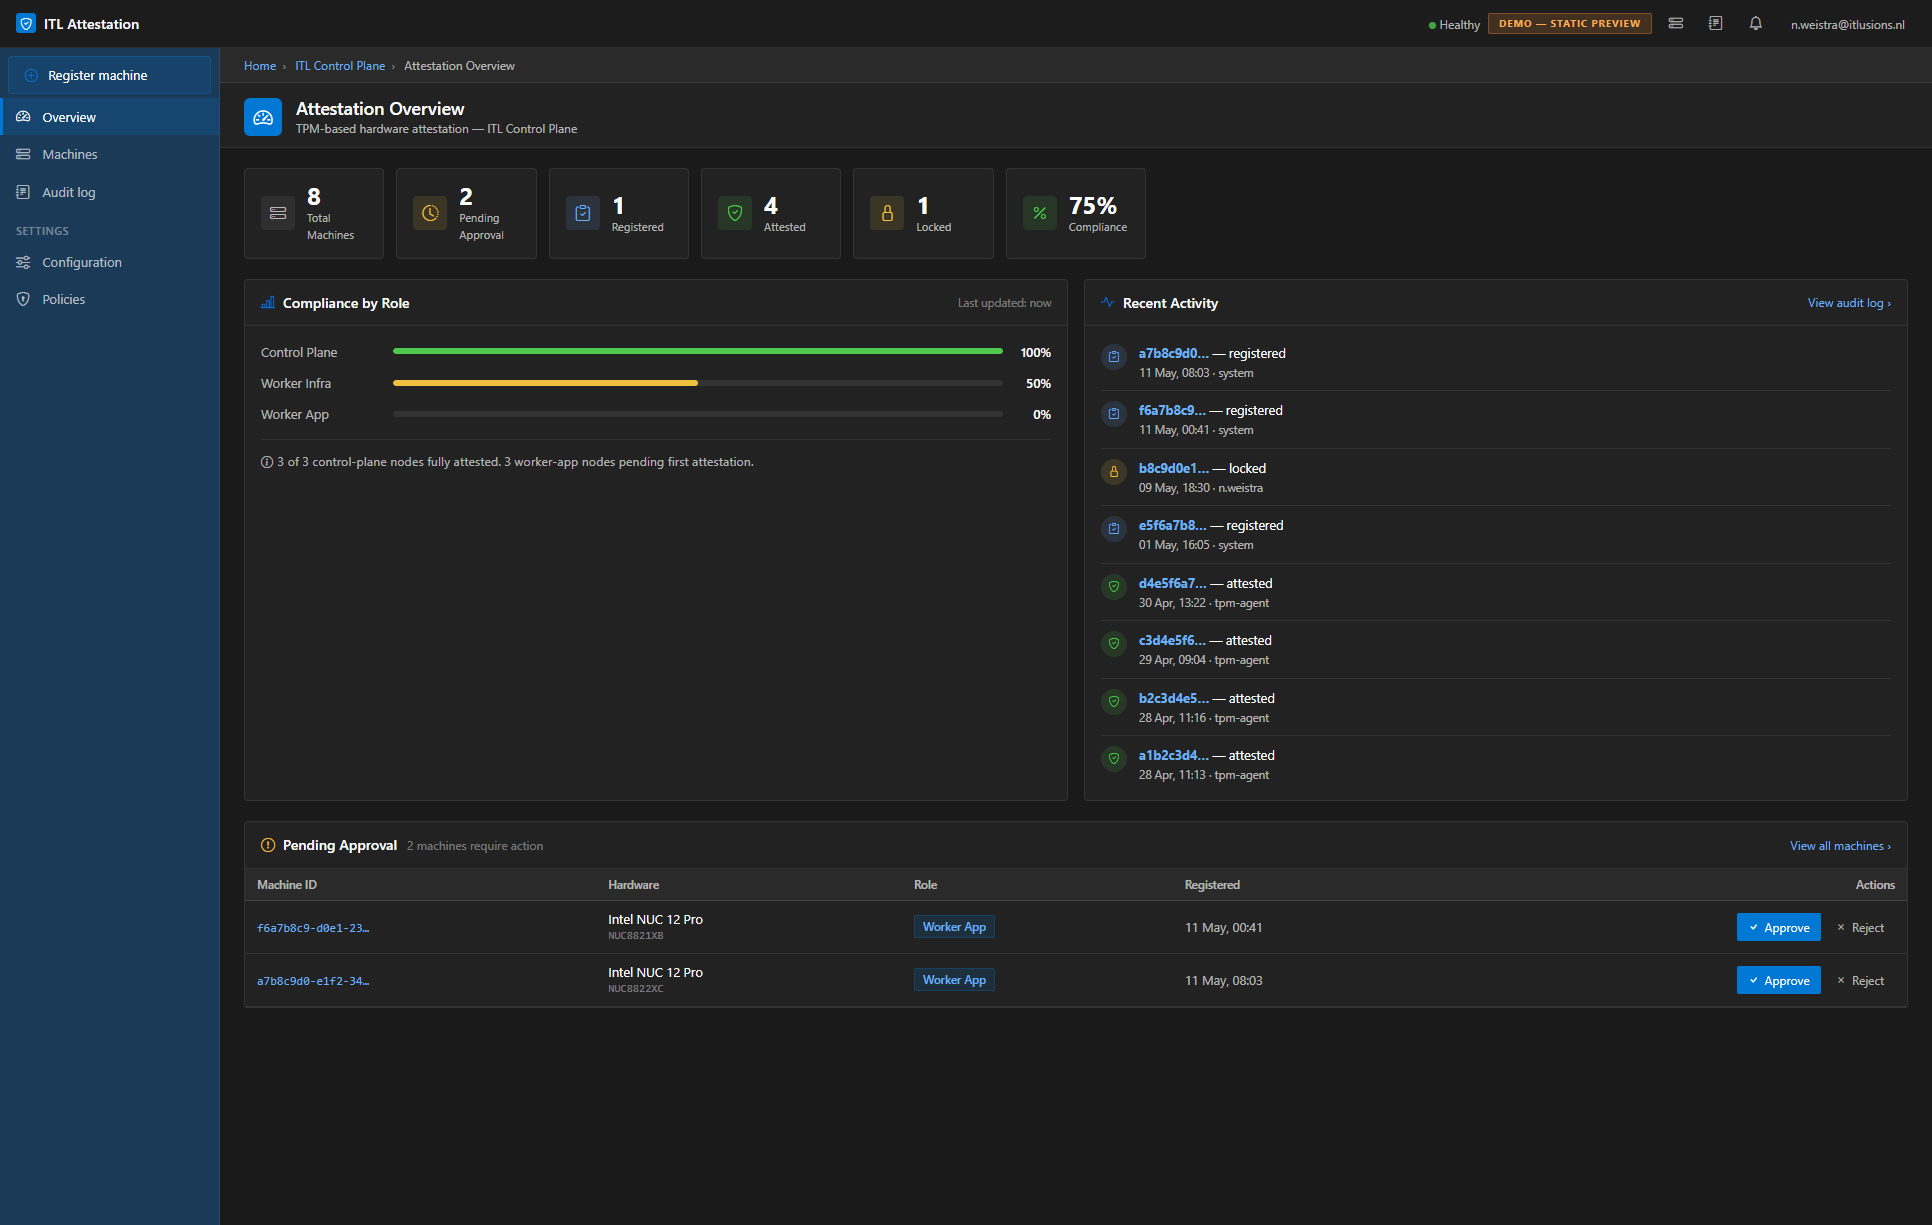
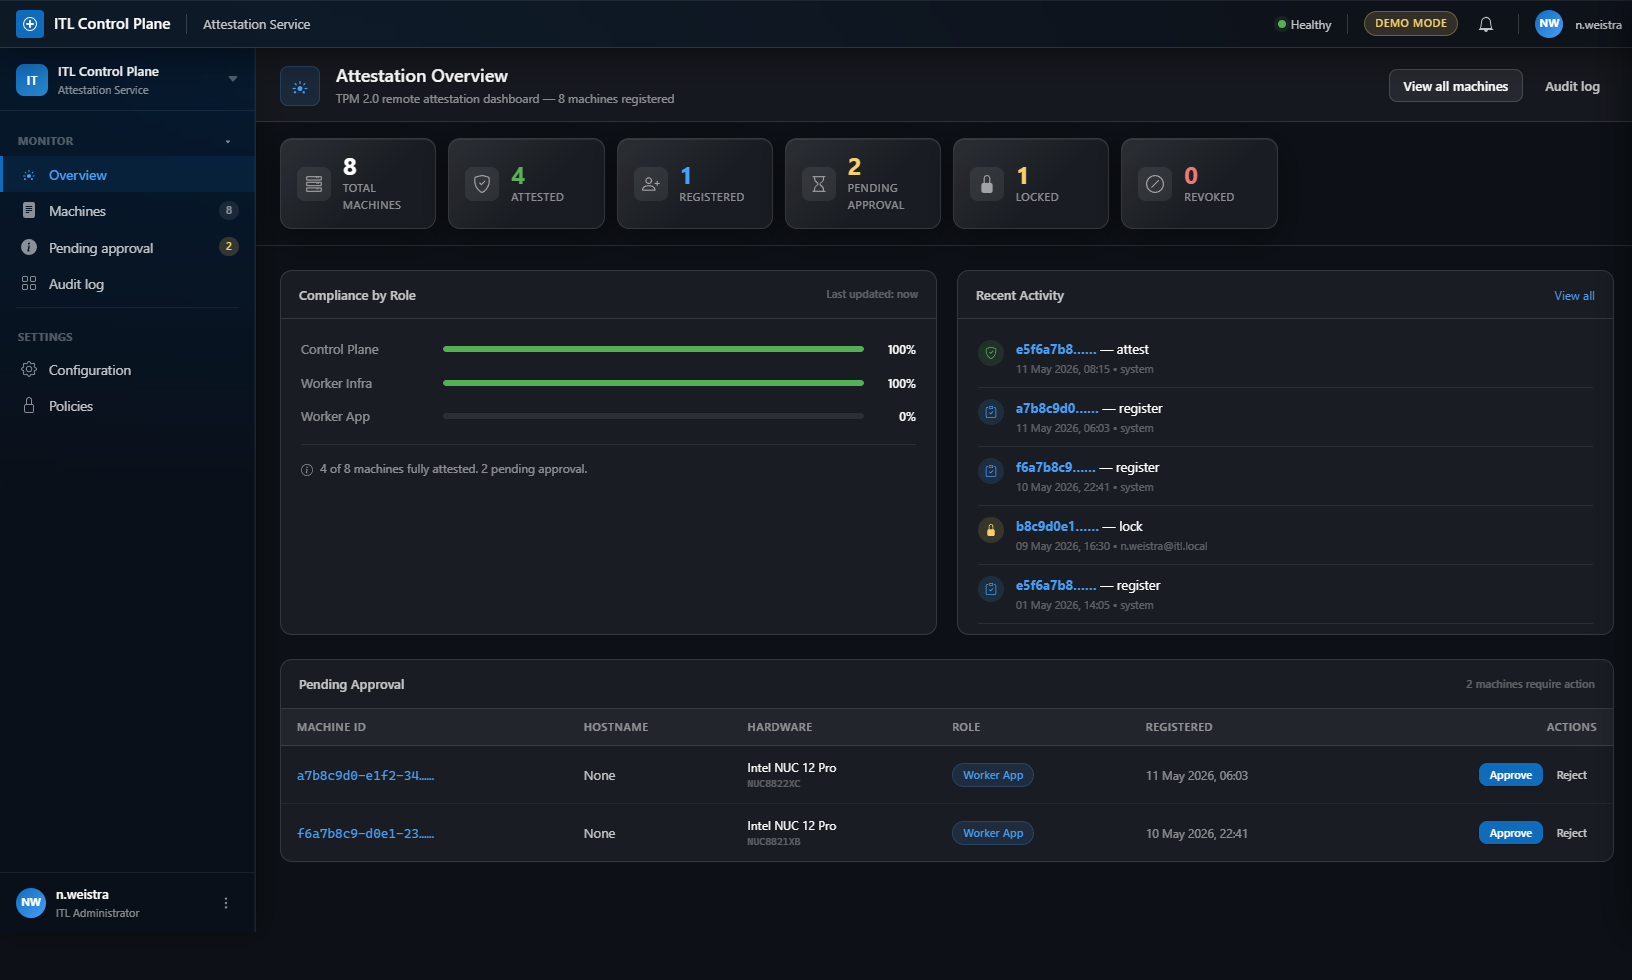
feat(docs): update UI walkthrough with new screenshots and improved descriptions

diff --git a/docs/WALKTHROUGH.md b/docs/WALKTHROUGH.md
@@ -5,7 +5,9 @@ title: UI Walkthrough
 
 # ITL Attestation — UI Walkthrough
 
-Visual walkthrough of all demo pages. All screenshots use the Azure Portal dark theme design system.
+Visual walkthrough of the live Flask web dashboard. All screenshots use the Azure Portal dark theme design system with Bootstrap 5 components.
+
+**Run the app**: `cd src/web && flask --app app run --port 7788`
 
 ---
 
@@ -13,87 +15,126 @@ Visual walkthrough of all demo pages. All screenshots use the Azure Portal dark 
 
 ![Dashboard overview](screenshots/walkthrough-01-dashboard.png)
 
-Stats tiles, compliance progress bars per role, recent activity feed, and the pending approvals table.
+**Route**: `/` (dashboard.dashboard)
+
+Six stat tiles showing total machines, attested count, registered count, pending approvals, locked count, and revoked count.
+
+**Compliance by Role** — Progress bars for each role showing attestation compliance:
+- Control Plane (100%)
+- Worker Infra (100%)
+- Worker App (0%)
+
+Color-coded: green for 100%, yellow for ≥50%, gray otherwise. Info banner showing attested/total/pending counts.
+
+**Recent Activity** — Timeline feed with colored circular icons per action type:
+- **Register** (blue clipboard icon)
+- **Attest** (green shield icon)
+- **Lock** (yellow lock icon)
+- **Revoke** (red X icon)
+
+Each entry shows truncated machine ID (linked), action label, timestamp, and actor.
+
+**Pending Approval** — Data table (conditional, only shows if pending machines exist) with columns:
+- Machine ID (linked to detail page)
+- Hostname
+- Hardware (model + serial)
+- Role badge
+- Registered timestamp
+- Actions: inline Approve (blue) and Reject (gray) buttons with confirmation dialogs
 
 ---
 
-## 2. Machine list
+## 2. Machines list
 
 ![Machine list](screenshots/walkthrough-02-machines.png)
 
-Full machine inventory with filter chips (All / Pending / Attested / Locked), status badges, and action buttons.
+**Route**: `/machines` (machines.machines_list)
+
+Full machine inventory with command bar (refresh, export CSV, add machine). Filter chips for status (All / Pending / Attested / Locked / Revoked / Rejected). Data table with machine ID, hostname, role badge, and status badge. Clicking a row navigates to machine detail page.
 
 ---
 
-## 3. Machine list — detail panel
+## 3. Audit log
 
-![Machine list with side panel](screenshots/walkthrough-03-machines-panel.png)
+![Audit log](screenshots/walkthrough-03-audit.png)
 
-Clicking a row opens a slide-in context panel with machine metadata, status, and quick actions — without leaving the list view.
+**Route**: `/audit` (audit.audit_log)
 
----
-
-## 4. Audit log
-
-![Audit log](screenshots/walkthrough-04-audit.png)
-
-20 synthetic audit events with date range, machine, action, and result filters. Paginated table, 10 per page.
+Comprehensive audit trail showing timestamp, machine ID (linked), action badge (REGISTER / ATTEST / APPROVE / LOCK / REVOKE), and result status. All events are timestamped and linked to their source machine for full traceability.
 
 ---
 
-## 5. Audit log — event detail panel
+## 4. Machine detail
 
-![Audit event detail panel](screenshots/walkthrough-05-audit-panel.png)
+![Machine detail — Overview](screenshots/walkthrough-04-machine-detail-overview.png)
 
-Clicking an event row opens a panel with full event metadata and a JSON payload viewer.
+**Route**: `/machines/<machine_id>` (machines.machine_detail)
 
----
+Breadcrumb navigation (Home › Machines › Machine ID). Hero header with machine icon, name (cp-node-01), inline badges (status, role, hardware), and action buttons (Lock, Revoke). Stats row showing Registered, Last Attested, Status Changed, and Cluster.
 
-## 6. Machine detail — Overview tab
+### Tabs
 
-![Machine detail: Overview](screenshots/walkthrough-06-machine-overview.png)
+**Overview** — Four description list sections:
+- **Identity**: Machine ID, hostname, cluster, namespace, role, status
+- **Hardware**: Manufacturer, model, serial, TPM version
+- **Security Anchors**: EK certificate hash, AK name
+- **Timeline**: Registered, last attested, status changed, created by, notes
 
-Hero header with stat bar (registered date, last attested, locked since, token status). Description list with copy-to-clipboard fields.
+![Machine detail — Events](screenshots/walkthrough-04-machine-detail-events.png)
 
----
+**Events** — Timeline feed showing machine lifecycle events (registration, attestation, approval, status changes) with timestamps, actors, and detailed event descriptions.
 
-## 7. Machine detail — Events tab
+![Machine detail — TPM Data](screenshots/walkthrough-04-machine-detail-tpm.png)
 
-![Machine detail: Events](screenshots/walkthrough-07-machine-events.png)
+**TPM Data** — Three stat cards (TPM Version, EK Source, PCR Match status). PCR register values (PCR0, PCR1, PCR7) in monospace font. Endorsement Key certificate hash with source verification note.
 
-Timeline feed of all attestation events for this machine with action badges and timestamps.
+![Machine detail — Actions](screenshots/walkthrough-04-machine-detail-actions.png)
 
----
-
-## 8. Machine detail — TPM Data tab
-
-![Machine detail: TPM Data](screenshots/walkthrough-08-machine-tpm.png)
-
-PCR register table with index, algorithm, value, and description columns. Locked-state alert banner.
-
----
-
-## 9. Machine detail — Actions tab
-
-![Machine detail: Actions](screenshots/walkthrough-09-machine-actions.png)
-
-Available administrative actions: Unlock, Revoke attestation, Schedule wipe. Each card shows consequences before confirmation.
+**Actions** — Contextual action cards based on machine state:
+- **Unlock Machine** (only if locked) — Re-enable attestation
+- **Revoke Machine** — Permanently invalidate machine credentials (destructive action)
+- **Download Audit Report** — Export signed PDF with all events for this machine
 
 ---
 
-## 10. Machine detail — Revoke confirmation modal
+## 5. Configuration
 
-![Revoke confirmation modal](screenshots/walkthrough-10-machine-revoke-modal.png)
+![Configuration](screenshots/walkthrough-05-configuration.png)
 
-Destructive actions require typed confirmation (`infra-node-02`) before the button becomes active, preventing accidental revocations.
+**Route**: `/configuration` (configuration.configuration)
+
+Read-only configuration viewer showing all service settings grouped by category:
+- **Service**: Attestation API URL, demo mode flag
+- **TPM Verification**: CA verification toggle, ECIA CA bundle URL
+- **Database**: PostgreSQL async connection string
+- **Authentication**: Secret key (masked), Keycloak URL/realm/client
+
+All settings display key, value (with masking for secrets), and description. Read-only badge indicates demo mode.
 
 ---
 
-## Pages
+## 6. Policies
 
-| Page | URL | Purpose |
-|---|---|---|
-| Dashboard | `demo-dashboard.html` | Stats, compliance, pending approvals |
-| Machines | `demo.html` | Full machine list with filter and detail panel |
-| Audit log | `demo-audit.html` | Audit events with filters and event panel |
-| Machine detail | `demo-machine.html` | Single machine: Overview / Events / TPM Data / Actions |
+![Policies](screenshots/walkthrough-06-policies.png)
+
+**Route**: `/policies` (policies.policies)
+
+Policy roadmap page showing three planned enforcement features:
+- **PCR Baseline Policy**: TPM 2.0 Platform Configuration Register enforcement with per-role templates and deviation alerts
+- **IMA Measurement Policy**: Linux Integrity Measurement Architecture file hash verification with YAML policy editor
+- **Keylime Agent Allowlist**: Runtime integrity via Keylime verifier with TPM2 challenge-response flow
+
+Each card shows "Coming Soon" badge and lists planned features.
+
+---
+
+## Routes
+
+| Page | Route | Blueprint.Function | Purpose |
+|---|---|---|---|
+| Dashboard | `/` | dashboard.dashboard | Stats, compliance, quick actions |
+| Machines | `/machines` | machines.machines_list | Full inventory with filters |
+| Audit log | `/audit` | audit.audit_log | Event timeline with traceability |
+| Machine detail | `/machines/<id>` | machines.machine_detail | Single machine overview |
+| Configuration | `/configuration` | configuration.configuration | Service settings (read-only) |
+| Policies | `/policies` | policies.policies | Policy roadmap |
